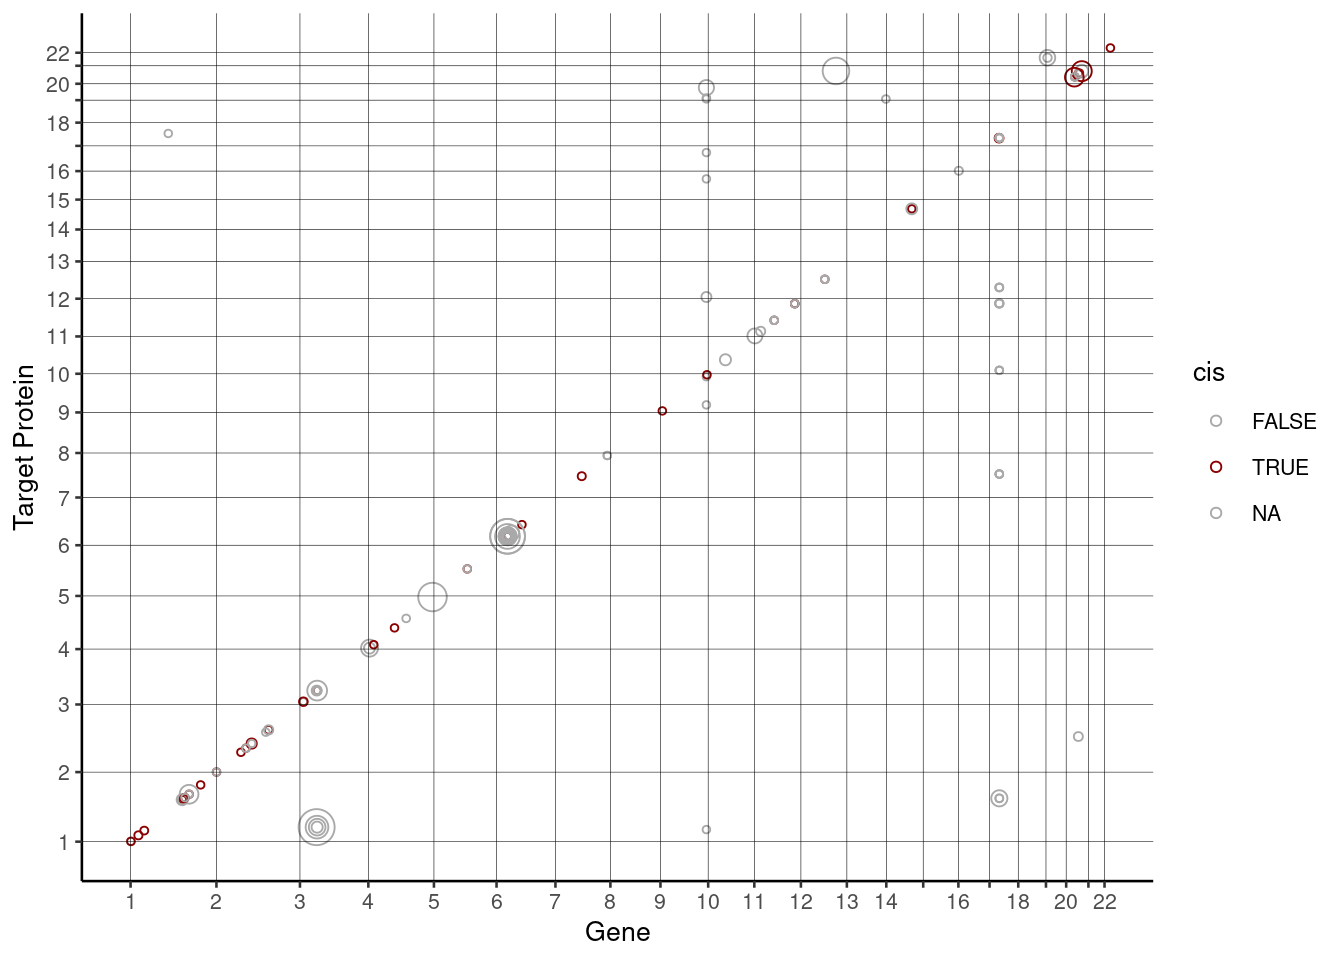
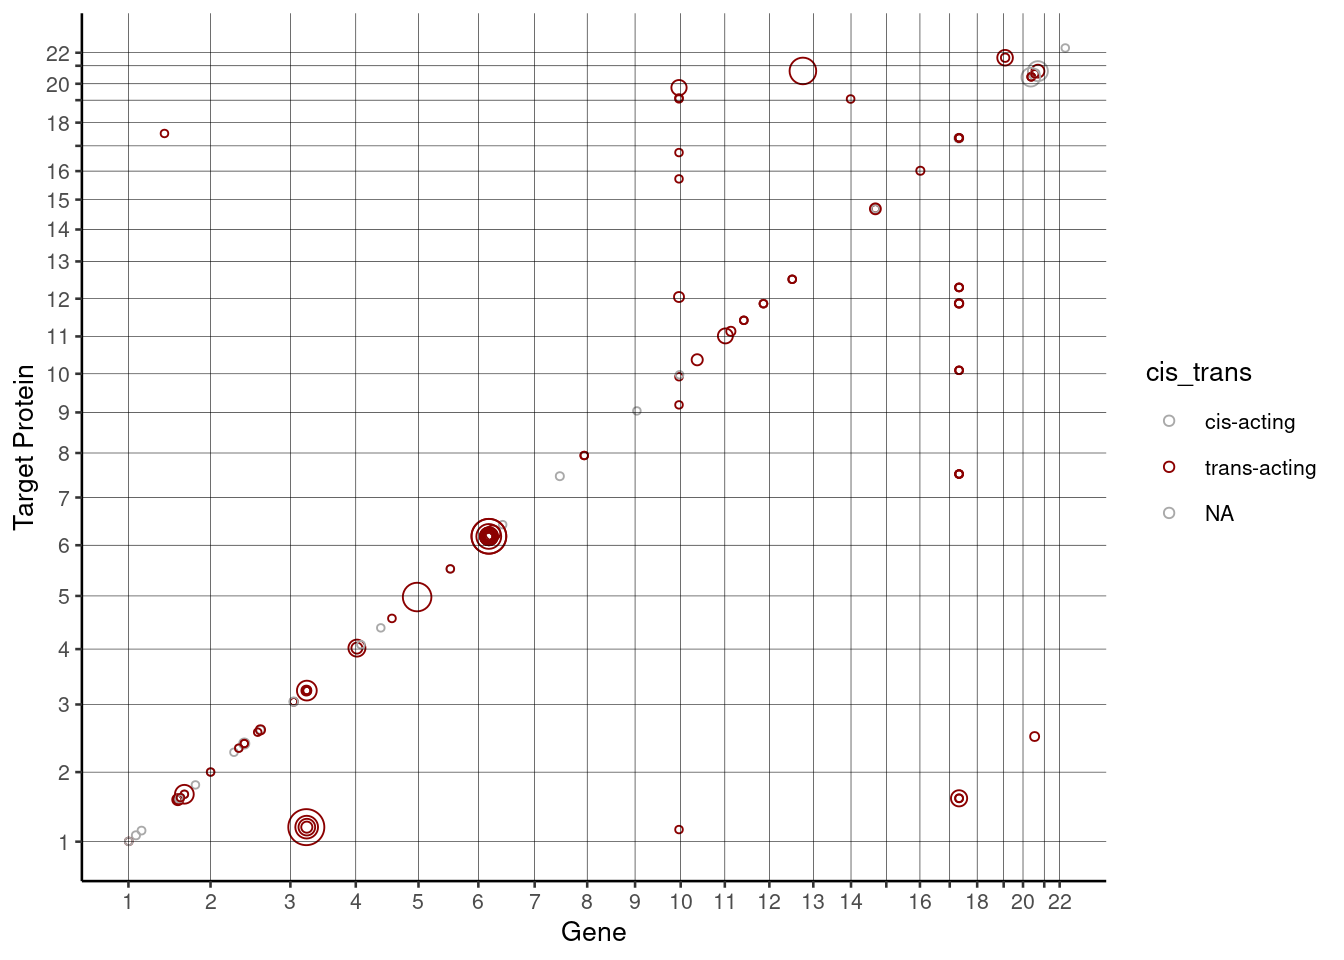
Build site.

diff --git a/docs/building_the_pipeline.html b/docs/building_the_pipeline.html
@@ -517,16 +517,16 @@ This reproducible <a href="http://rmarkdown.rstudio.com">R Markdown</a> analysis
 <div class="panel panel-default">
 <div class="panel-heading">
 <p class="panel-title">
-<a data-toggle="collapse" data-parent="#workflowr-checks" href="#strongRepositoryversionstrongahrefhttpsgithubcomhwittichTWASforproteintree47bc7ed286d6cbb7d23a31e21a96df1a1d65a199targetblank47bc7eda"> <span class="glyphicon glyphicon-ok text-success" aria-hidden="true"></span> <strong>Repository version:</strong> <a href="https://github.com/hwittich/TWAS_for_protein/tree/47bc7ed286d6cbb7d23a31e21a96df1a1d65a199" target="_blank">47bc7ed</a> </a>
+<a data-toggle="collapse" data-parent="#workflowr-checks" href="#strongRepositoryversionstrongahrefhttpsgithubcomhwittichTWASforproteintreef63a176d903e035678bd970db45a5ce86f8bb67dtargetblankf63a176a"> <span class="glyphicon glyphicon-ok text-success" aria-hidden="true"></span> <strong>Repository version:</strong> <a href="https://github.com/hwittich/TWAS_for_protein/tree/f63a176d903e035678bd970db45a5ce86f8bb67d" target="_blank">f63a176</a> </a>
 </p>
 </div>
[2 lines of base64/hex data omitted]
 <div class="panel-body">
 <p>
 Great! You are using Git for version control. Tracking code development and connecting the code version to the results is critical for reproducibility.
 </p>
 <p>
-The results in this page were generated with repository version <a href="https://github.com/hwittich/TWAS_for_protein/tree/47bc7ed286d6cbb7d23a31e21a96df1a1d65a199" target="_blank">47bc7ed</a>. See the <em>Past versions</em> tab to see a history of the changes made to the R Markdown and HTML files.
+The results in this page were generated with repository version <a href="https://github.com/hwittich/TWAS_for_protein/tree/f63a176d903e035678bd970db45a5ce86f8bb67d" target="_blank">f63a176</a>. See the <em>Past versions</em> tab to see a history of the changes made to the R Markdown and HTML files.
 </p>
 <p>
 Note that you need to be careful to ensure that all relevant files for the analysis have been committed to Git prior to generating the results (you can use <code>wflow_publish</code> or <code>wflow_git_commit</code>). workflowr only checks the R Markdown file, but you know if there are other scripts or data files that it depends on. Below is the status of the Git repository when the results were generated:
@@ -580,6 +580,40 @@ Message
 </tr>
 </thead>
 <tbody>
+<tr>
+<td>
+Rmd
+</td>
+<td>
+<a href="https://github.com/hwittich/TWAS_for_protein/blob/f63a176d903e035678bd970db45a5ce86f8bb67d/analysis/building_the_pipeline.Rmd" target="_blank">f63a176</a>
+</td>
+<td>
+hwittich
+</td>
+<td>
+2021-03-23
+</td>
+<td>
+Updated legend of final figure.
+</td>
+</tr>
+<tr>
+<td>
+html
+</td>
+<td>
+<a href="https://rawcdn.githack.com/hwittich/TWAS_for_protein/1fc36c25cc3d62d3b28f7956f3e10af589987d5c/docs/building_the_pipeline.html" target="_blank">1fc36c2</a>
+</td>
+<td>
+hwittich
+</td>
+<td>
+2021-03-23
+</td>
+<td>
+Build site.
+</td>
+</tr>
 <tr>
 <td>
 Rmd
@@ -692,8 +726,83 @@ library(qqman)</code></pre>
 <pre><code></code></pre>
 <pre class="r"><code>hist(protein_associations$pvalue)</code></pre>
 <p><img src="figure/building_the_pipeline.Rmd/unnamed-chunk-1-1.png" width="672" style="display: block; margin: auto;" /></p>
+<p>
+<button type="button" class="btn btn-default btn-xs btn-workflowr btn-workflowr-fig" data-toggle="collapse" data-target="#fig-unnamed-chunk-1-1">
+Past versions of unnamed-chunk-1-1.png
+</button>
+</p>
+<div id="fig-unnamed-chunk-1-1" class="collapse">
+<div class="table-responsive">
+<table class="table table-condensed table-hover">
+<thead>
+<tr>
+<th>
+Version
+</th>
+<th>
+Author
+</th>
+<th>
+Date
+</th>
+</tr>
+</thead>
+<tbody>
+<tr>
+<td>
+<a href="https://github.com/hwittich/TWAS_for_protein/blob/1fc36c25cc3d62d3b28f7956f3e10af589987d5c/docs/figure/building_the_pipeline.Rmd/unnamed-chunk-1-1.png" target="_blank">1fc36c2</a>
+</td>
+<td>
+hwittich
+</td>
+<td>
+2021-03-23
+</td>
+</tr>
+</tbody>
+</table>
+</div>
+</div>
 <pre class="r"><code>qq(protein_associations$pvalue)</code></pre>
-<p><img src="figure/building_the_pipeline.Rmd/unnamed-chunk-1-2.png" width="672" style="display: block; margin: auto;" /> Great, looking at our histogram, it is clear that we have some significant hits. THis is further supported by our qqplot, which shows that most of the SNPs follow the identitity line, while a handful of SNPs are significant.</p>
+<p><img src="figure/building_the_pipeline.Rmd/unnamed-chunk-1-2.png" width="672" style="display: block; margin: auto;" /></p>
+<p>
+<button type="button" class="btn btn-default btn-xs btn-workflowr btn-workflowr-fig" data-toggle="collapse" data-target="#fig-unnamed-chunk-1-2">
+Past versions of unnamed-chunk-1-2.png
+</button>
+</p>
+<div id="fig-unnamed-chunk-1-2" class="collapse">
+<div class="table-responsive">
+<table class="table table-condensed table-hover">
+<thead>
+<tr>
+<th>
+Version
+</th>
+<th>
+Author
+</th>
+<th>
+Date
+</th>
+</tr>
+</thead>
+<tbody>
+<tr>
+<td>
+<a href="https://github.com/hwittich/TWAS_for_protein/blob/1fc36c25cc3d62d3b28f7956f3e10af589987d5c/docs/figure/building_the_pipeline.Rmd/unnamed-chunk-1-2.png" target="_blank">1fc36c2</a>
+</td>
+<td>
+hwittich
+</td>
+<td>
+2021-03-23
+</td>
+</tr>
+</tbody>
+</table>
+</div>
+</div>
+<p>Great, looking at our histogram, it is clear that we have some significant hits. THis is further supported by our qqplot, which shows that most of the SNPs follow the identitity line, while a handful of SNPs are significant.</p>
 <p>Let’s subset the significant SNPs.</p>
 <pre class="r"><code>library(dplyr)</code></pre>
 <pre><code>
@@ -741,10 +850,10 @@ sig_hits&lt;-left_join(sig_hits,chr_len,by=c(&quot;protein_chr&quot;=&quot;chrom
 sig_hits&lt;-mutate(sig_hits,new_protein_start = protein_chr_start + protein_start) %&gt;% mutate(new_gene_start = gene_chr_start+gene_start)
 
 #Then, let&#39;s compare the positions to determine if a gene is trans-acting or cis-acting
-sig_hits&lt;-mutate(sig_hits,cis = ifelse((new_gene_start-500)&lt;=new_protein_start &amp; new_protein_start&lt;=(new_gene_start+500),TRUE,FALSE))</code></pre>
+sig_hits&lt;-mutate(sig_hits,cis_trans = ifelse((new_gene_start-500)&lt;=new_protein_start &amp; new_protein_start&lt;=(new_gene_start+500),&quot;cis-acting&quot;,&quot;trans-acting&quot;))</code></pre>
 <p>Now let’s plot the chromosomal position of the transcript vs the chromosomal position of the associated protein for every significant hit!</p>
 <pre class="r"><code>library(ggplot2)
-ggplot(sig_hits,aes(x=new_gene_start,y=new_protein_start,size=pvalue,color=cis)) + 
+ggplot(sig_hits,aes(x=new_gene_start,y=new_protein_start,size=pvalue,color=cis_trans)) + 
   geom_point(shape=21) + 
   scale_size_continuous(guide=FALSE) + 
   scale_color_manual(values=c(&quot;dark gray&quot;,&quot;dark red&quot;),na.value=&quot;dark gray&quot;) +
@@ -758,6 +867,43 @@ ggplot(sig_hits,aes(x=new_gene_start,y=new_protein_start,size=pvalue,color=cis))
   scale_y_continuous(breaks=starts[1:22],labels=c(1:16,&quot;&quot;,18,&quot;&quot;,20,&quot;&quot;,22))</code></pre>
 <pre><code>Warning: Removed 1 rows containing missing values (geom_point).</code></pre>
 <p><img src="figure/building_the_pipeline.Rmd/unnamed-chunk-5-1.png" width="672" style="display: block; margin: auto;" /></p>
+<p>
+<button type="button" class="btn btn-default btn-xs btn-workflowr btn-workflowr-fig" data-toggle="collapse" data-target="#fig-unnamed-chunk-5-1">
+Past versions of unnamed-chunk-5-1.png
+</button>
+</p>
+<div id="fig-unnamed-chunk-5-1" class="collapse">
+<div class="table-responsive">
+<table class="table table-condensed table-hover">
+<thead>
+<tr>
+<th>
+Version
+</th>
+<th>
+Author
+</th>
+<th>
+Date
+</th>
+</tr>
+</thead>
+<tbody>
+<tr>
+<td>
+<a href="https://github.com/hwittich/TWAS_for_protein/blob/1fc36c25cc3d62d3b28f7956f3e10af589987d5c/docs/figure/building_the_pipeline.Rmd/unnamed-chunk-5-1.png" target="_blank">1fc36c2</a>
+</td>
+<td>
+hwittich
+</td>
+<td>
+2021-03-23
+</td>
+</tr>
+</tbody>
+</table>
+</div>
+</div>
 <br>
 <p>
 <button type="button" class="btn btn-default btn-workflowr btn-workflowr-sessioninfo" data-toggle="collapse" data-target="#workflowr-sessioninfo" style="display: block;">
